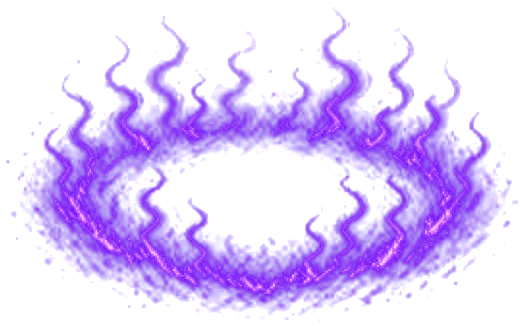
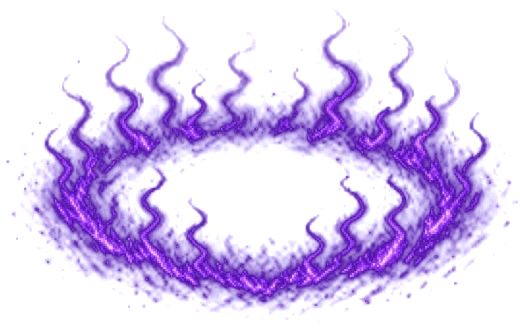
Ауры: плотнее, новая рождественская (тест)
Claude-Session: https://claude.ai/code/session_016vnxAXxP6rRycVd2Q33YK3

diff --git a/test/index.html b/test/index.html
@@ -11,5 +11,5 @@
 <header><h1>📜 Команды для чата</h1><input id="q" type="search" placeholder="Поиск команды: поход, грядка, босс…" aria-label="Поиск"><nav id="nav"></nav></header>
 <main id="list"></main></details>
 <footer>Кнопки выполняют действие от вашего Twitch-ника, без сообщений в чат. Результат показывается под кнопками.</footer>
-<script src="config.js"></script><script src="commands.js?v=bs528"></script><script src="test/actions.js?v=t24"></script><script src="img/h/heroes.js?v=h8b"></script><script src="sprites.js?v=live5"></script><script src="test/panel.js?v=t6"></script><script src="app.js"></script><script src="season.js?v=tr495"></script><script src="test/live6.js?v=t3"></script><script src="changelog.js?v=live32"></script><script src="test/bigscreen.js?v=t14"></script><script src="test/fish.js?v=t1"></script><script src="test/xe.js?v=t22"></script><script src="test/wint.js?v=t2"></script><script src="test/hor.js?v=t15"></script><script src="test/music.js?v=t3"></script>
+<script src="config.js"></script><script src="commands.js?v=bs528"></script><script src="test/actions.js?v=t24"></script><script src="img/h/heroes.js?v=h8b"></script><script src="sprites.js?v=live5"></script><script src="test/panel.js?v=t6"></script><script src="app.js"></script><script src="season.js?v=tr495"></script><script src="test/live6.js?v=t3"></script><script src="changelog.js?v=live32"></script><script src="test/bigscreen.js?v=t15"></script><script src="test/fish.js?v=t1"></script><script src="test/xe.js?v=t22"></script><script src="test/wint.js?v=t2"></script><script src="test/hor.js?v=t15"></script><script src="test/music.js?v=t3"></script>
 </body></html>

diff --git a/test/bigscreen.js b/test/bigscreen.js
@@ -1011,7 +1011,7 @@
     if (!show) { if (d) d.remove(); return; }
     if (!d) { d = document.createElement('div'); d.className = 'aura9'; const sh = el.querySelector(':scope > .shadow'); el.insertBefore(d, sh ? sh.nextSibling : el.firstChild); }
     if (d.dataset.id === id) return; d.dataset.id = id; const k = 192 * 1.35 / A[1], w = 520 * k, h = A[2] * k, b = (A[2] - AURA_RY[id]) * k;
-    d.style.cssText = `position:absolute;left:0;bottom:calc(${-b.toFixed(1)}px * var(--hs,1));width:calc(${w.toFixed(1)}px * var(--hs,1));height:calc(${h.toFixed(1)}px * var(--hs,1));transform:translateX(-50%);background:url(img/auras/${A[0]}.png?v=3) center/100% 100% no-repeat;pointer-events:none;animation:aura9 2.6s ease-in-out infinite`; }
+    d.style.cssText = `position:absolute;left:0;bottom:calc(${-b.toFixed(1)}px * var(--hs,1));width:calc(${w.toFixed(1)}px * var(--hs,1));height:calc(${h.toFixed(1)}px * var(--hs,1));transform:translateX(-50%);background:url(img/auras/${A[0]}.png?v=4) center/100% 100% no-repeat;pointer-events:none;animation:aura9 2.6s ease-in-out infinite`; }
   { const st9 = document.createElement('style'); st9.textContent = '@keyframes aura9{50%{opacity:.82;transform:translateX(-50%) scale(1.03,.97)}}'; document.head.appendChild(st9); }
   window.__auraRefresh = () => { document.querySelectorAll('#bsActors .aura9').forEach(d => { d.dataset.id = ''; }); try { if (window.__panel && __panel.render) __panel.render(); } catch (e) {} };
   function fillActors(c) {
